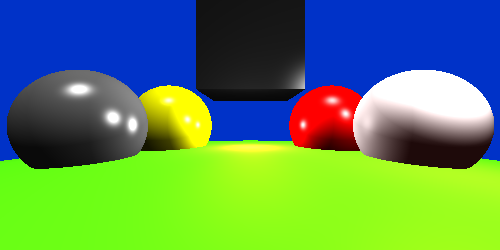
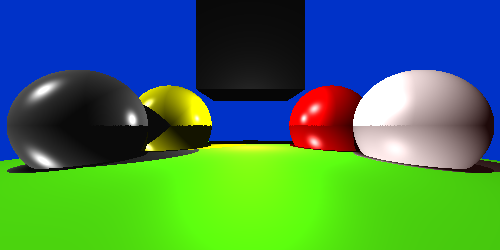
Shadows work somehow

diff --git a/IK_Raytracer/IK_Raytracer/LightIntensity.cpp b/IK_Raytracer/IK_Raytracer/LightIntensity.cpp
@@ -216,10 +216,10 @@ LightIntensity LightIntensity::GetColorFromRay(const Ray& r, Hitable* world, vec
 	std::vector<DirectionalLight> directionalLights;
 
 	//Add lights to calculate
-	pointLights.push_back(PointLight(vec3(1.0, 1.0, 1.0), vec3(1.0, 1.0, 1.0), vec3(0, 0.1, 0), 0.5f, 1.0f, 5.0f));
-	pointLights.push_back(PointLight(vec3(1.0, 1.0, 1.0), vec3(1.0, 1.0, 1.0), vec3(-6, 3, 5), 0.5f, 1.0f, 5.0f));
+	//pointLights.push_back(PointLight(vec3(1.0, 1.0, 1.0), vec3(1.0, 1.0, 1.0), vec3(0, 1, 0), 0.5f, 1.0f, 5.0f));
+	//pointLights.push_back(PointLight(vec3(1.0, 1.0, 1.0), vec3(1.0, 1.0, 1.0), vec3(-6, 3, 5), 0.5f, 1.0f, 5.0f));
 
-	directionalLights.push_back(DirectionalLight(vec3(0.9, 0.9, 0.9), vec3(0.9, 0.9, 0.9), vec3(0, -3, -1)));
+	directionalLights.push_back(DirectionalLight(vec3(0.9, 0.9, 0.9), vec3(0.9, 0.9, 0.9), vec3(-3, -3, -1)));
 
 	if (world->hit(r, 0.0, 100, rec))
 	{
@@ -227,14 +227,32 @@ LightIntensity LightIntensity::GetColorFromRay(const Ray& r, Hitable* world, vec
 		vec3 specularColor(0, 0, 0);
 		for (int i = 0; i < pointLights.size(); i++)
 		{
-			specularColor += pointLights.at(i).getSpecular(rec, -cameraPosition, rec.materialPtr->shininess);
-			diffuseColor += pointLights.at(i).getDiffuse(rec);
+			Ray shadowRay(rec.p, pointLights.at(i).location);
+			if (world->hit(shadowRay, 0.001, 100, rec))
+			{
+				continue;
+			}
+			else
+			{
+				specularColor += pointLights.at(i).getSpecular(rec, -cameraPosition, rec.materialPtr->shininess);
+				diffuseColor += pointLights.at(i).getDiffuse(rec);
+			}
 		}
 		for (int i = 0; i < directionalLights.size(); i++)
 		{
-			specularColor += directionalLights.at(i).getSpecular(rec, -cameraPosition, rec.materialPtr->shininess);
-			diffuseColor += directionalLights.at(i).getDiffuse(rec);
+			Ray shadowRay(rec.p, -directionalLights.at(i).direction);
+			if (world->hit(shadowRay, 0.001, 100, rec))
+			{
+				continue;
+			}
+			else
+			{
+				specularColor += directionalLights.at(i).getSpecular(rec, -cameraPosition, rec.materialPtr->shininess);
+				diffuseColor += directionalLights.at(i).getDiffuse(rec);
+			}
 		}
+		
+		//if(shadowRay.)
 		
 		return LightIntensity(red(rec.materialPtr->mAmbient.r()   + rec.materialPtr->mDiffuse.r() * diffuseColor.r() + rec.materialPtr->mSpecular.r() * specularColor.r() * 1),
 							  green(rec.materialPtr->mAmbient.g() + rec.materialPtr->mDiffuse.g() * diffuseColor.g() + rec.materialPtr->mSpecular.g() * specularColor.g() * 1),

diff --git a/IK_Raytracer/IK_Raytracer/DirectionalLight.cpp b/IK_Raytracer/IK_Raytracer/DirectionalLight.cpp
@@ -2,14 +2,12 @@
 
 vec3 DirectionalLight::getDiffuse(hitRecord& rec)
 {
-	// Diffuse jest okay
 	diffColor *= dot(normalize(rec.normal), normalize(unit_vector(-direction)));
 	return vec3(getRed(diffColor.r()), getGreen(diffColor.g()), getBlue(diffColor.b()));
 }
 
 vec3 DirectionalLight::getSpecular(hitRecord& rec, vec3 cameraPos, float shininess)
 {
-	// Specular ma odbicia po zlej stronie
 	vec3 viewDir = normalize(cameraPos + rec.p); //raczej git
 	vec3 reflectDir = unit_vector(-direction) - 2 * dot(unit_vector(-direction), rec.normal) * rec.normal;
 	float specular = pow(std::max(dot(viewDir, reflectDir), 0.0f), shininess);
@@ -19,7 +17,6 @@ vec3 DirectionalLight::getSpecular(hitRecord& rec, vec3 cameraPos, float shinine
 
 bool DirectionalLight::isInShadow(hitRecord& rec)
 {
-	Ray* rayToLightSource = new Ray(rec.p, -direction);
-	
-	return false;
+	if (rec.t < 400) return true;
+	else return false;
 }

diff --git a/IK_Raytracer/IK_Raytracer/PointLight.h b/IK_Raytracer/IK_Raytracer/PointLight.h
@@ -15,6 +15,6 @@ public:
 	PointLight(vec3 diffColor, vec3 specColor, vec3 loc, float atten, float linearAtten, float quatAtten);
 	vec3 getDiffuse(hitRecord& rec);
 	vec3 getSpecular(hitRecord& rec, vec3 cameraPos, float shininess);
-	float calculateDistanceToPointLight(hitRecord& rec);
+	bool isInShadow(hitRecord& rec);
 };
 

diff --git a/IK_Raytracer/IK_Raytracer/PointLight.cpp b/IK_Raytracer/IK_Raytracer/PointLight.cpp
@@ -24,3 +24,8 @@ vec3 PointLight::getSpecular(hitRecord& rec, vec3 cameraPos, float shininess)
 
 	return vec3(getRed(specularColor.r()), getGreen(specularColor.g()), getBlue(specularColor.b()));
 }
+bool PointLight::isInShadow(hitRecord& rec)
+{
+	if (rec.t < 400) return true;
+	else return false;
+}
